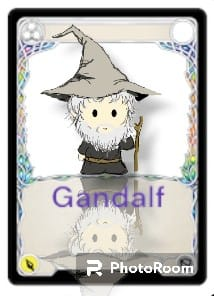
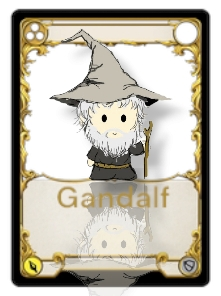
ok

diff --git a/projects/hobbit-trail.html b/projects/hobbit-trail.html
@@ -700,21 +700,21 @@
           <div id="cards">
             <div class="card-collumn">
              <div class="card"><img src="bilbo-card.jpg" alt=""></div>
-             <div class="card">qqqqqqqqqqqqqq</div>
-             <div class="card">qqqqqqqqqqqqqq</div>
-             <div class="card">qqqqqqqqqqqqqq</div>
+             <div class="card"><img src="thorin-card.jpg" alt=""></div>
+             <div class="card"><img src="elrond-card.jpg" alt=""></div>
+             <div class="card"><img src="kili-card.jpg" alt=""></div>
             </div>
             <div class="card-collumn">
-             <div class="card">qqqqqqqqqqqqqq</div>
-             <div class="card">qqqqqqqqqqqqqq</div>
-             <div class="card">qqqqqqqqqqqqqq</div>
-             <div class="card">qqqqqqqqqqqqqq</div>
+              <div class="card"><img src="gollum-card.jpg" alt=""></div>
+              <div class="card"><img src="troll.jpg" alt=""></div>
+              <div class="card"><img src="azog-card.jpg" alt=""></div>
+              <div class="card"><img src="spider-card.jpg" alt=""></div>
             </div>
             <div class="card-collumn">
-             <div class="card">qqqqqqqqqqqqqq</div>
-             <div class="card">qqqqqqqqqqqqqq</div>
-             <div class="card">qqqqqqqqqqqqqq</div>
-             <div class="card">qqqqqqqqqqqqqq</div>
+              <div class="card"><img src="gandalf-card.jpg" alt=""></div>
+              <div class="card"><img src="thorin-card.jpg" alt=""></div>
+              <div class="card"><img src="elrond-card.jpg" alt=""></div>
+              <div class="card"><img src="thorin-card.jpg" alt=""></div>
             </div>
         </div>
       </div> 
